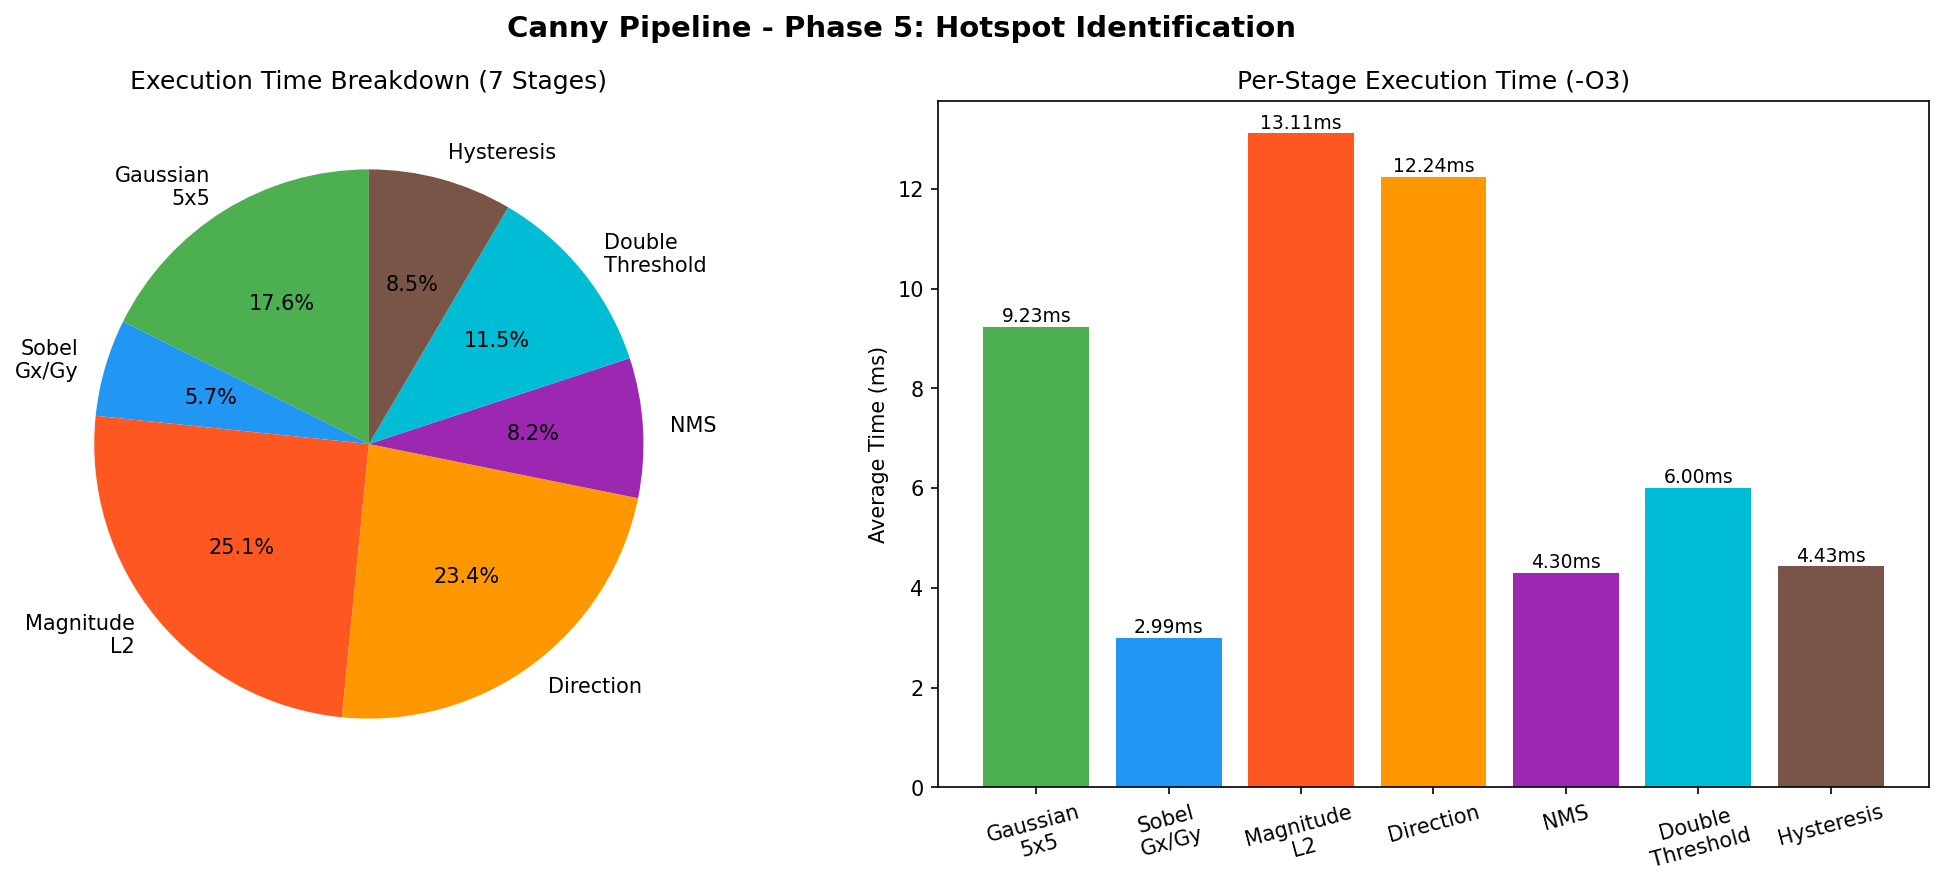
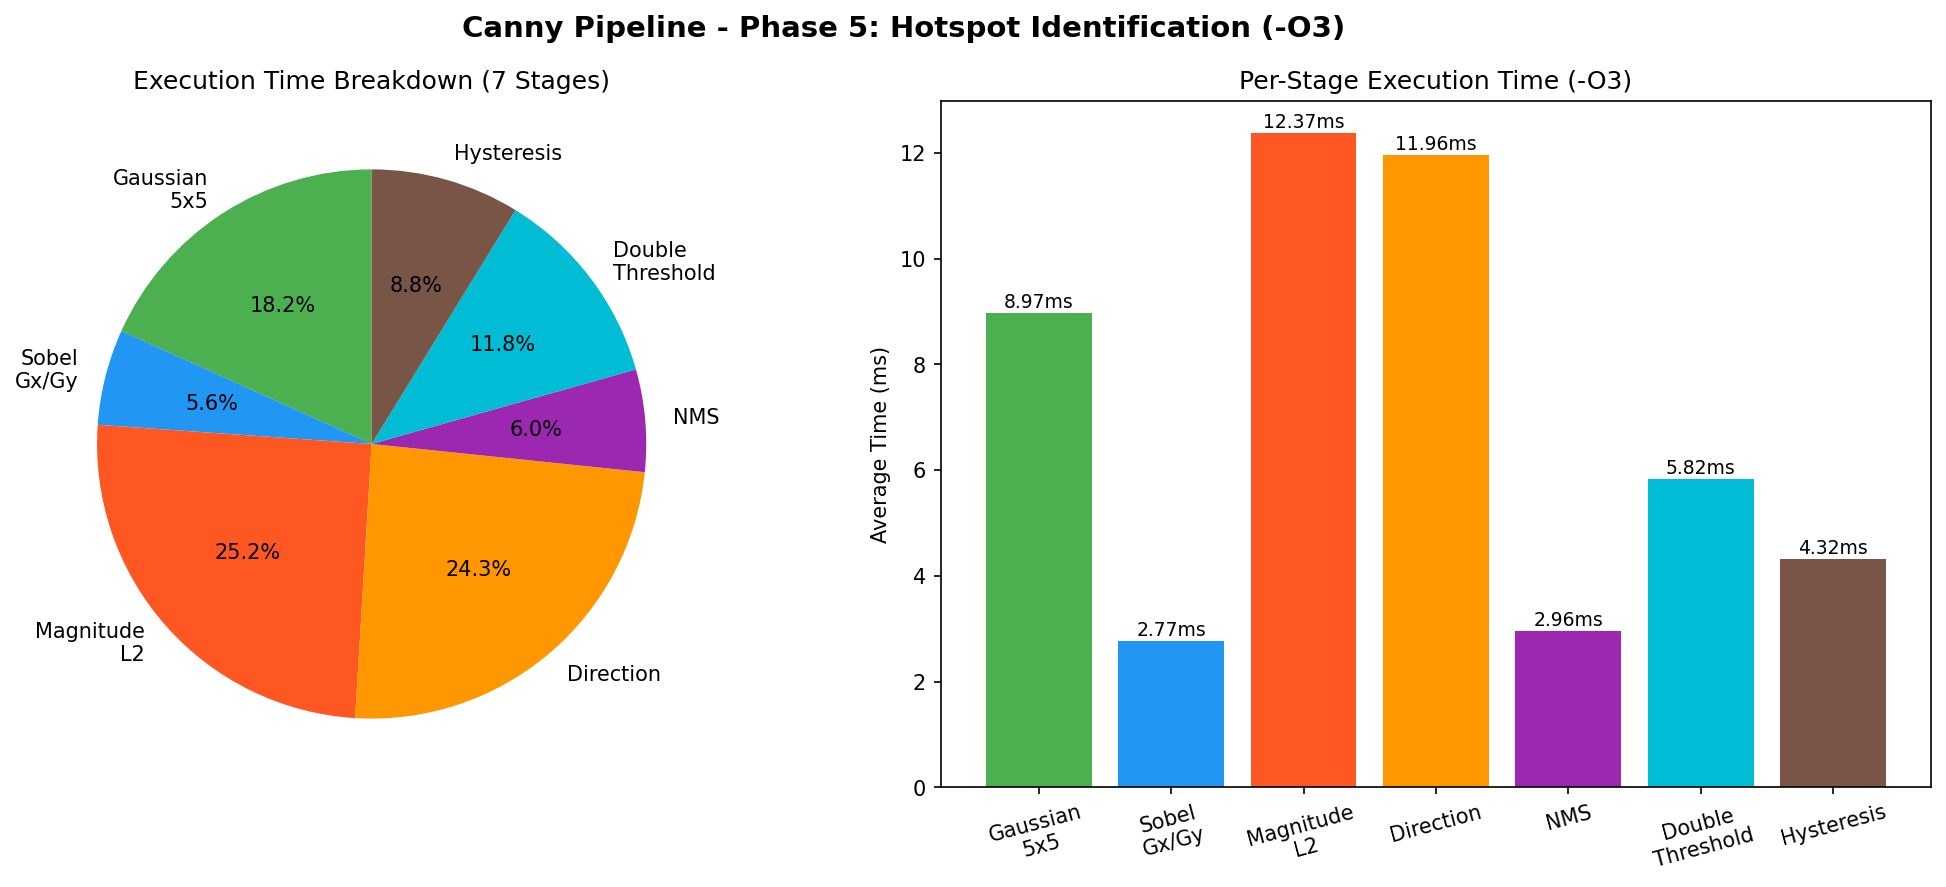
Ahmed Ashraf: Add Phase 5 hotspot profiling script and results

diff --git a/scripts/phase5_profile.py b/scripts/phase5_profile.py
@@ -4,11 +4,12 @@ import matplotlib.pyplot as plt
 
 stages = ['Gaussian\n5x5', 'Sobel\nGx/Gy', 'Magnitude\nL2', 'Direction',
           'NMS', 'Double\nThreshold', 'Hysteresis']
-times  = [9.23, 2.99, 13.11, 12.24, 4.30, 6.00, 4.43]
+
+times  = [8.97267, 2.77247, 12.3695, 11.9575, 2.95955, 5.82372, 4.31562]
 colors = ['#4CAF50', '#2196F3', '#FF5722', '#FF9800', '#9C27B0', '#00BCD4', '#795548']
 
 fig, (ax1, ax2) = plt.subplots(1, 2, figsize=(14, 6))
-fig.suptitle('Canny Pipeline - Phase 5: Hotspot Identification', fontsize=14, fontweight='bold')
+fig.suptitle('Canny Pipeline - Phase 5: Hotspot Identification (-O3)', fontsize=14, fontweight='bold')
 
 ax1.pie(times, labels=stages, colors=colors, autopct='%1.1f%%', startangle=90)
 ax1.set_title('Execution Time Breakdown (7 Stages)')
@@ -19,7 +20,8 @@ ax2.set_title('Per-Stage Execution Time (-O3)')
 for bar, t in zip(bars, times):
     ax2.text(bar.get_x() + bar.get_width()/2, bar.get_height() + 0.1,
              f'{t:.2f}ms', ha='center', fontsize=9)
-plt.xticks(rotation=15)
+ax2.set_xticks(range(len(stages)))
+ax2.set_xticklabels(stages, rotation=15)
 
 plt.tight_layout()
 plt.savefig('results/phase5_profile.png', dpi=150, bbox_inches='tight')

diff --git a/README.md b/README.md
@@ -1,36 +1,23 @@
-# Canny Edge Detection Project (RISC-V)
+## Phase 5: Hotspot Identification
 
-## Phase 5: Profiling and Hotspot Identification
+### Best Binary: -O3 (49.17 ms/iteration)
 
-Per-stage timing was measured over 100 iterations on QEMU (`-O3`, vlen=128) for the full Canny pipeline.
+| Stage        | Time (ms) | % of Total | RVV Target? |
+|--------------|-----------|------------|-------------|
+| Magnitude    | 12.37     | 25.2%      | ✅ YES      |
+| Direction    | 11.96     | 24.3%      | ✅ YES      |
+| Gaussian 5x5 | 8.97      | 18.2%      | ✅ YES      |
+| D.Threshold  | 5.82      | 11.8%      | ⚠️ Maybe    |
+| Hysteresis   | 4.32      | 8.8%       | ❌ NO       |
+| NMS          | 2.96      | 6.0%       | ❌ NO       |
+| Sobel Gx/Gy  | 2.77      | 5.6%       | ❌ NO       |
 
-| Stage             | Time (ms) | % of Total |
-|-------------------|-----------|------------|
-| Gaussian 5x5      | 9.23      | 17.7%      |
-| Sobel Gx/Gy       | 2.99      | 5.7%       |
-| Magnitude L2      | 13.11     | 25.1%      |
-| Direction         | 12.24     | 23.4%      |
-| NMS               | 4.30      | 8.2%       |
-| Double Threshold  | 6.00      | 11.5%      |
-| Hysteresis        | 4.43      | 8.5%       |
-| **Total**         | **52.31** | **100%**   |
-
-![Phase 5 Profile](results/phase5_profile.png)
-
-### Hotspots Identified
-
-**Magnitude (25.1%)** and **Direction (23.4%)** are the largest contributors to execution time, followed by **Gaussian (17.7%)**.
-
-### Phase 6 RVV Priority (Amdahl's Law)
-
-1. **Magnitude** - pure arithmetic (multiply/add/sqrt), no branches, ideal for SIMD
-2. **Gaussian Blur** - convolution loops, also pure arithmetic, highly vectorizable
-3. **Direction** - branch-heavy logic; smaller RVV speedup expected but still worthwhile
-
-Together, Magnitude + Gaussian = 42.8% of execution time and are the strongest RVV candidates.
-
-To reproduce:
-```bash
-make riscv
-make test_image
-```
+### Key Observations:
+1. -O3 gives 5x speedup over -O0 (251ms → 49ms)
+2. Direction stage REGRESSED at -O3 (3.4ms → 11.9ms) 
+   due to branch-heavy conditional logic interfering with 
+   loop unrolling — Amdahl's Law in practice
+3. Auto-vectorization adds no benefit here (-O3 ≈ autovec)
+   because GCC's cost model rejects most loops
+4. Top 3 hotspots (Magnitude+Direction+Gaussian) = 67% 
+   of runtime → these are the RVV targets for Phase 6